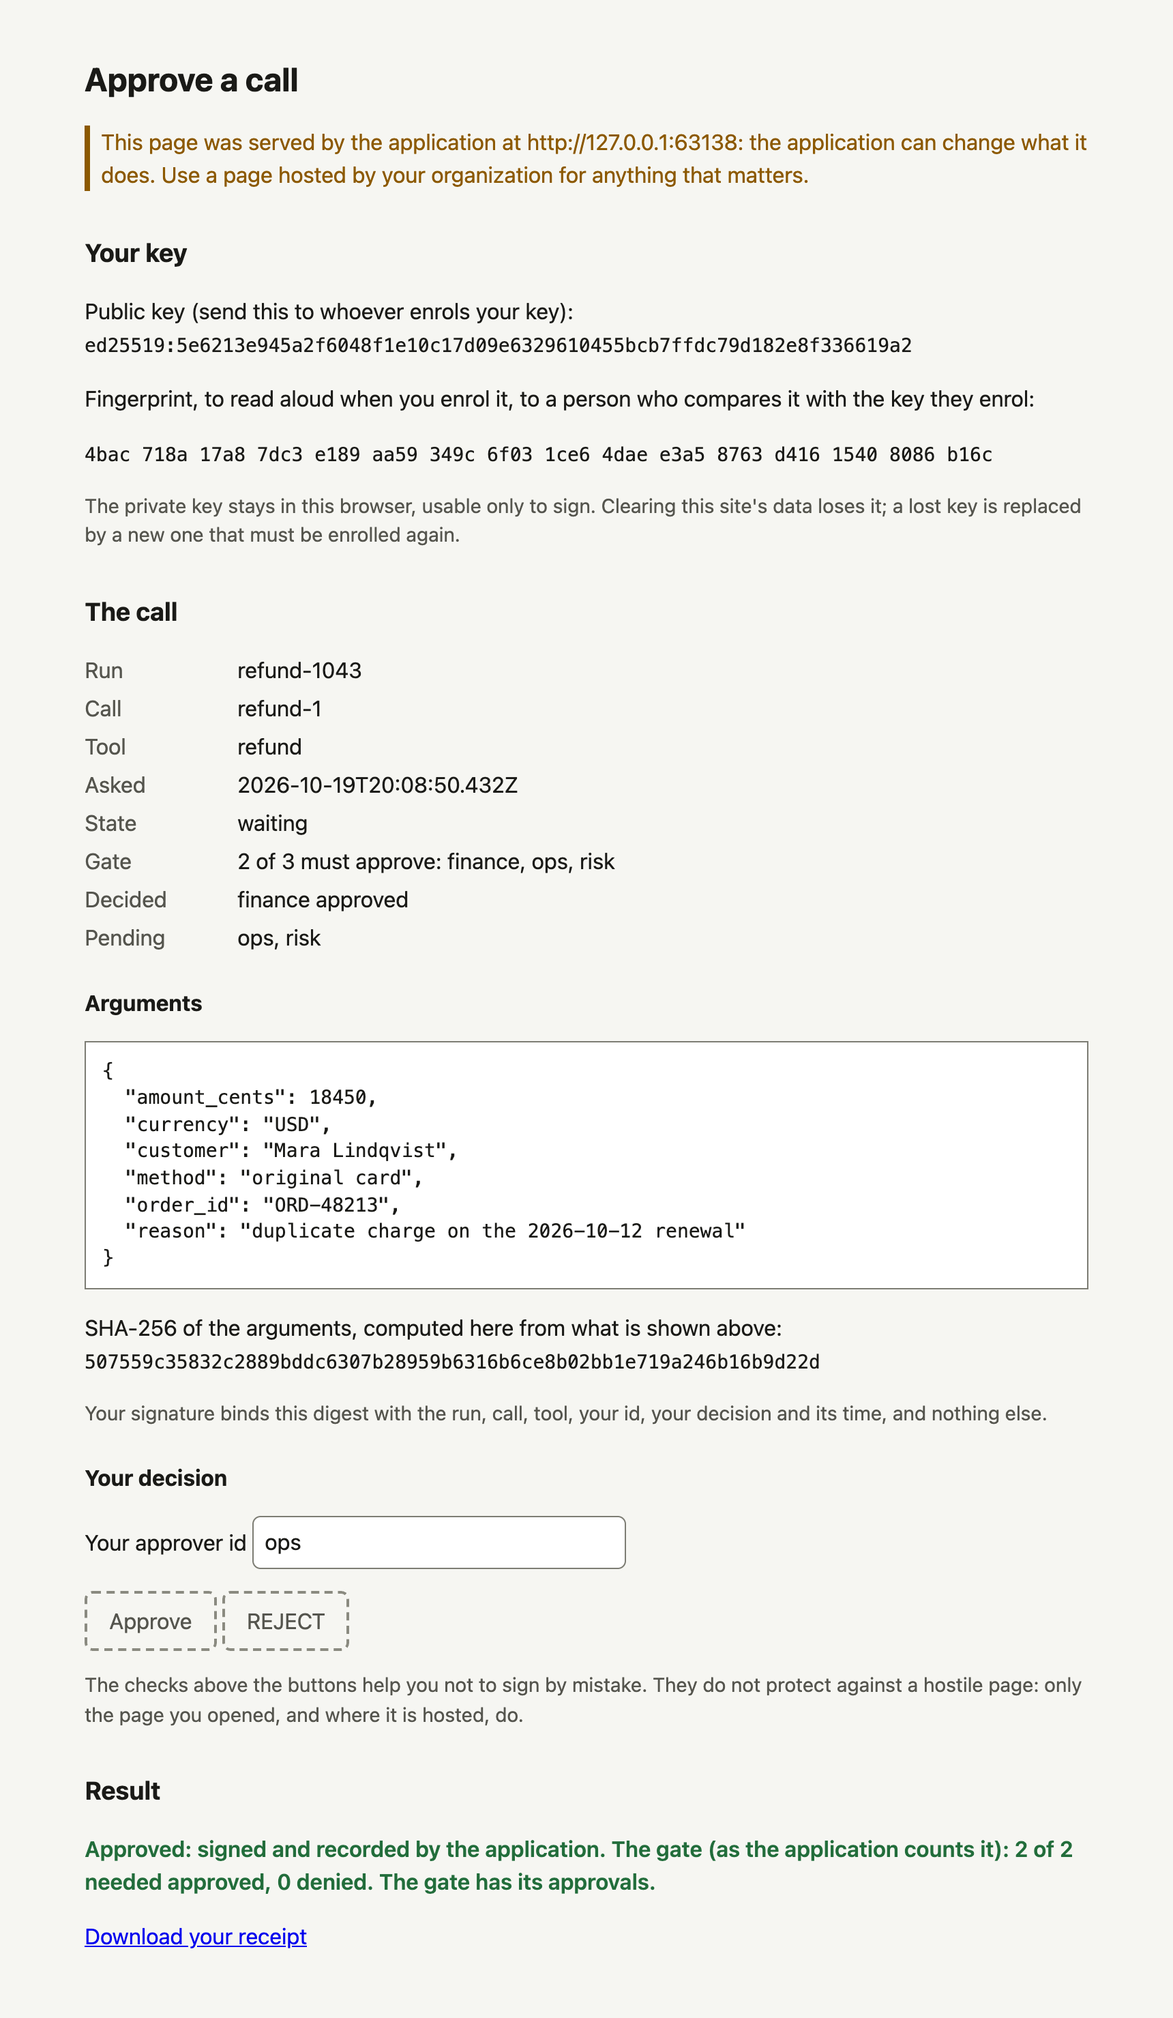
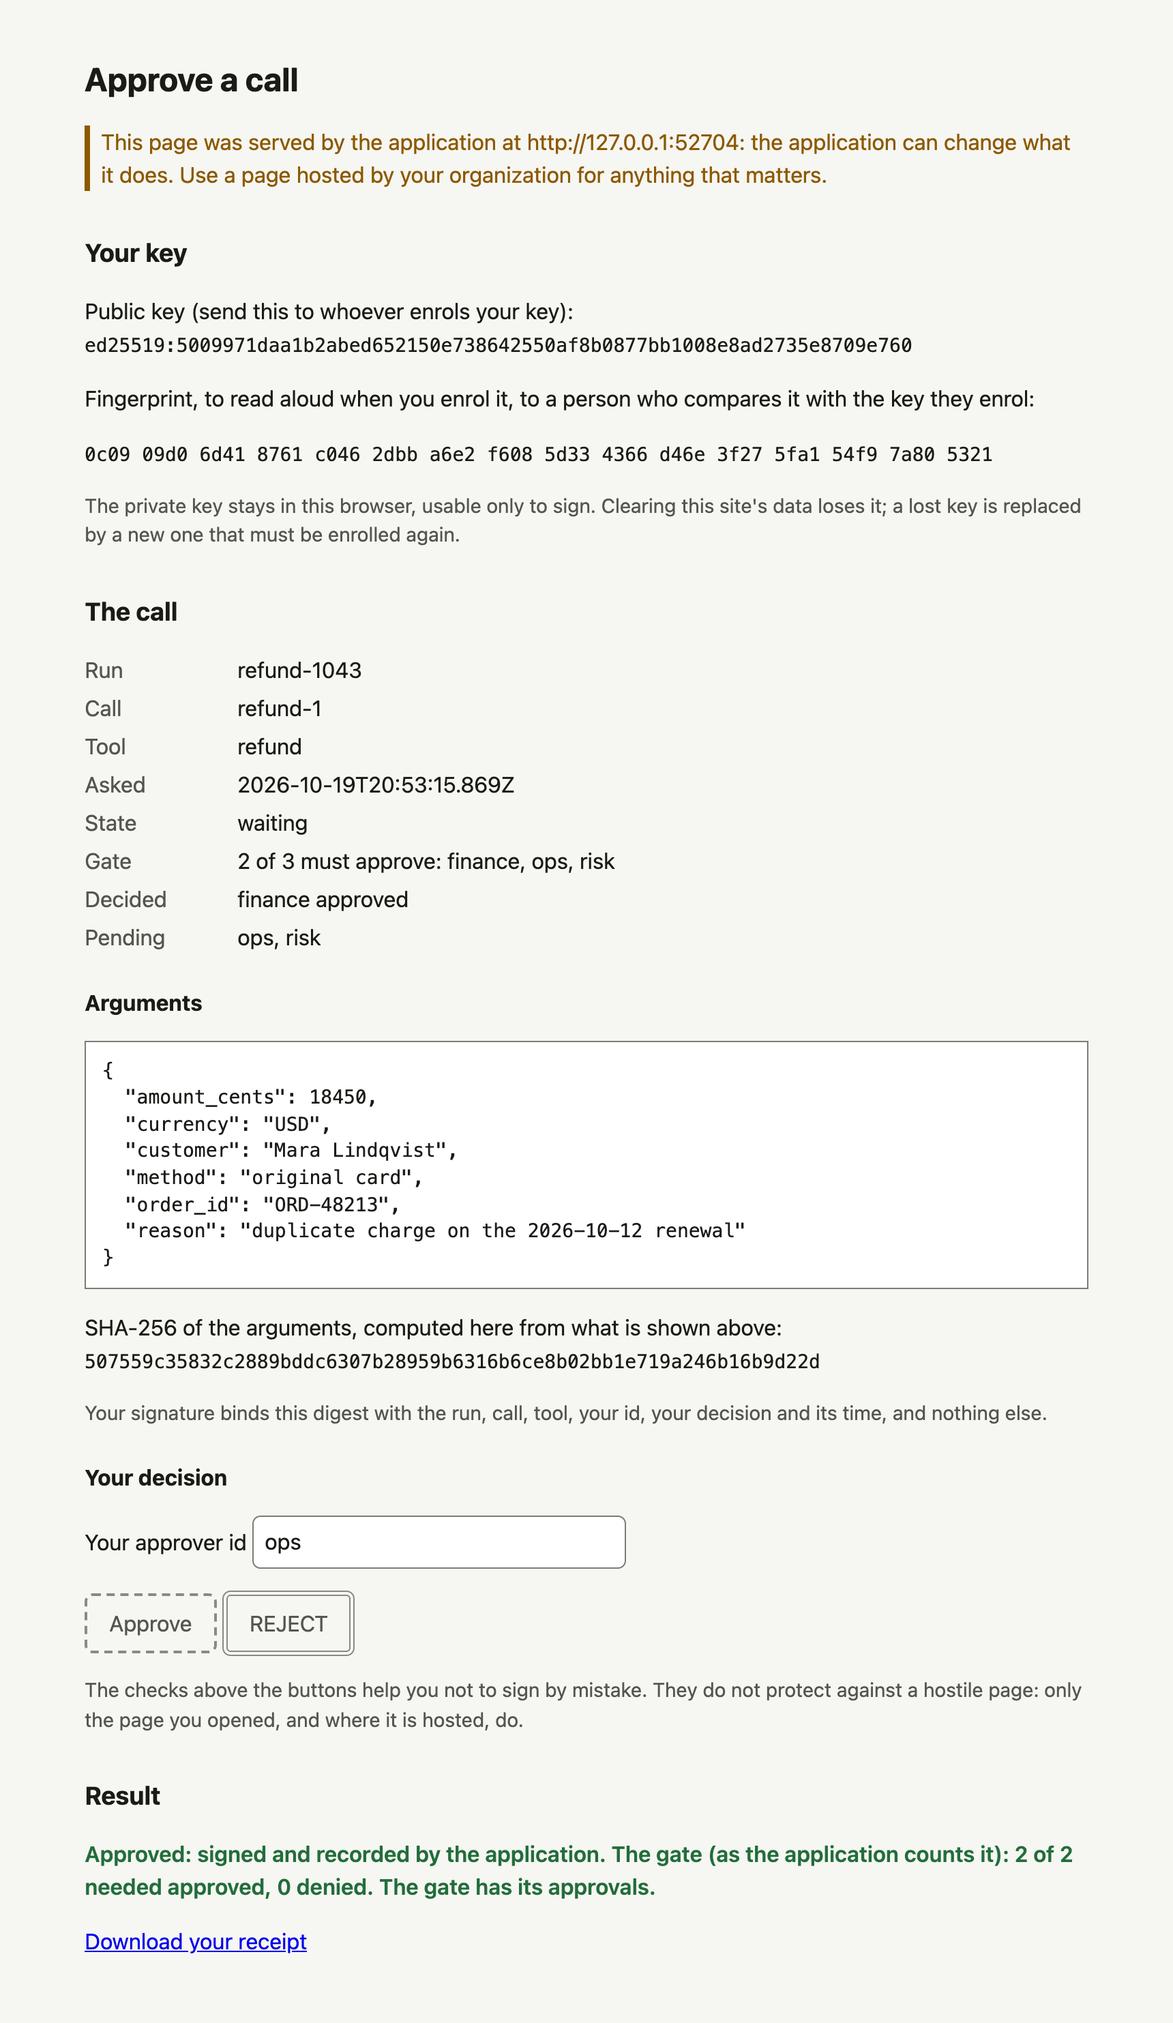
themes PR 5: REJECT differs from Approve in shape in every mode; Chrome test covers shapes, sizes, labels and results; bundle hash golden; ban more CSS; docs fixes (review)

diff --git a/approvals/page/app.css b/approvals/page/app.css
@@ -16,9 +16,14 @@ pre { background: var(--card); border: 1px solid var(--line-strong); padding: .7
 code { font: 14px var(--mono); overflow-wrap: anywhere; }
 input { font: inherit; color: var(--fg); background: var(--card); border: 1px solid var(--line-strong); border-radius: var(--r-sm); padding: .4rem .5rem; width: 16rem; max-width: 100%; }
 button { font: inherit; padding: .5rem 1rem; border: 1px solid var(--good); background: var(--good); color: var(--on-sem); border-radius: var(--r-sm); cursor: pointer; }
-button.reject { border-color: var(--bad); background: var(--bad); }
-/* A disabled button is told by its dashed edge and its quiet text as well as its color. */
+/* REJECT is a different shape from Approve, in every mode and in forced colors, where the two share
+   one color: a heavy double edge, drawn in the glyph color so the two lines show against the fill, against a thin solid one. The words say which is which; the shape says
+   it again, so a look that blurs the colors cannot make one pass for the other. */
+button.reject { border: 4px double var(--on-sem); background: var(--bad); }
+/* A disabled button is told by its quiet text, its empty fill and a dashed edge (REJECT's stays double, so
+   the two still differ) as well as by its color. */
 button:disabled { background: transparent; color: var(--muted); border: 2px dashed var(--idle); cursor: not-allowed; }
+button.reject:disabled { border: 4px double var(--idle); }
 a:focus-visible, button:focus-visible, input:focus-visible, pre:focus-visible { outline: 2px solid var(--focus); outline-offset: 2px; }
 .warn { color: var(--warn); border-left: 4px solid var(--warn); padding-left: .5rem; }
 .note { color: var(--muted); font-size: .9rem; }

diff --git a/approvals/page_chrome_test.go b/approvals/page_chrome_test.go
@@ -32,25 +32,77 @@ type pageText struct {
 	Disabled bool    `json:"disabled"`
 }
 
+// pageDrawn is how an element is drawn: visible in the page, and what its label is made of.
+type pageDrawn struct {
+	W         float64 `json:"w"`
+	H         float64 `json:"h"`
+	Left      float64 `json:"left"`
+	Right     float64 `json:"right"`
+	VW        float64 `json:"vw"`
+	Opacity   float64 `json:"opacity"`
+	FontSize  float64 `json:"fontSize"`
+	Shown     bool    `json:"shown"`
+	Text      string  `json:"text"`
+	Before    string  `json:"before"`
+	After     string  `json:"after"`
+	Transform string  `json:"transform"`
+	Clip      string  `json:"clip"`
+}
+
+// seen: the element is there to be read: shown, opaque, big enough, on screen, not moved, scaled or clipped.
+func (d pageDrawn) seen(minW, minH, minFont float64) bool {
+	return d.Shown && d.Opacity >= 0.99 && d.W >= minW && d.H >= minH && d.FontSize >= minFont &&
+		d.Left >= -1 && d.Right <= d.VW+1 && (d.Transform == "none" || d.Transform == "") && (d.Clip == "none" || d.Clip == "")
+}
+
+type pageButton struct {
+	BorderWidth float64   `json:"borderWidth"`
+	BorderStyle string    `json:"borderStyle"`
+	Border      pcolour   `json:"border"`
+	Fill        pcolour   `json:"fill"`
+	FillAlpha   float64   `json:"fillAlpha"`
+	Text        pcolour   `json:"text"`
+	ParentBG    pcolour   `json:"parentBG"`
+	Drawn       pageDrawn `json:"drawn"`
+	FillCSS     string    `json:"fillCSS"`
+	BorderCSS   string    `json:"borderCSS"`
+}
+
+type pageResult struct {
+	Color  pcolour   `json:"color"`
+	Alpha  float64   `json:"alpha"`
+	BG     pcolour   `json:"bg"`
+	Drawn  pageDrawn `json:"drawn"`
+	Weight string    `json:"weight"`
+}
+
 type pageControl struct {
-	Tag         string  `json:"tag"`
-	ID          string  `json:"id"`
-	Class       string  `json:"cls"`
-	Disabled    bool    `json:"disabled"`
-	BorderWidth float64 `json:"borderWidth"`
-	BorderStyle string  `json:"borderStyle"`
-	Border      pcolour `json:"border"`
-	BorderAlpha float64 `json:"borderAlpha"`
-	Fill        pcolour `json:"fill"`
-	FillAlpha   float64 `json:"fillAlpha"`
-	ParentBG    pcolour `json:"parentBG"`
+	Drawn       pageDrawn `json:"drawn"`
+	Tag         string    `json:"tag"`
+	ID          string    `json:"id"`
+	Class       string    `json:"cls"`
+	Disabled    bool      `json:"disabled"`
+	BorderWidth float64   `json:"borderWidth"`
+	BorderStyle string    `json:"borderStyle"`
+	Border      pcolour   `json:"border"`
+	BorderAlpha float64   `json:"borderAlpha"`
+	Fill        pcolour   `json:"fill"`
+	FillAlpha   float64   `json:"fillAlpha"`
+	ParentBG    pcolour   `json:"parentBG"`
 }
 
 type pageMode struct {
-	Token   string        `json:"token"`
-	FGToken string        `json:"fgToken"`
-	Texts   []pageText    `json:"texts"`
-	Control []pageControl `json:"controls"`
+	Must  map[string]*pageDrawn `json:"must"`
+	Roles struct {
+		Good string `json:"good"`
+		Bad  string `json:"bad"`
+	} `json:"roles"`
+	Enabled map[string]pageButton `json:"enabled"`
+	Results map[string]pageResult `json:"results"`
+	Token   string                `json:"token"`
+	FGToken string                `json:"fgToken"`
+	Texts   []pageText            `json:"texts"`
+	Control []pageControl         `json:"controls"`
 	Focus   struct {
 		Style string  `json:"style"`
 		Width float64 `json:"width"`
@@ -175,8 +227,55 @@ func TestPage_LookInChrome(t *testing.T) {
 					t.Errorf("control #%s was not measured", id)
 				}
 			}
-			if a, rj := byID["approve"], byID["reject"]; a.Disabled && (a.BorderStyle != "dashed" || rj.BorderStyle != "dashed") {
-				t.Errorf("disabled Approve and REJECT are %s and %s, want dashed", a.BorderStyle, rj.BorderStyle)
+			// Disabled, Approve is dashed and REJECT keeps its double edge: they still differ, and a disabled
+			// one is not an enabled one.
+			if a, rj := byID["approve"], byID["reject"]; a.Disabled && (a.BorderStyle != "dashed" || rj.BorderStyle != "double") {
+				t.Errorf("disabled Approve and REJECT are %s and %s, want dashed and double", a.BorderStyle, rj.BorderStyle)
+			}
+			// The two buttons, as drawn once enabled: different in shape (not only in colour, which forced
+			// colours take away) in every mode, labelled by their DOM text and nothing CSS adds, drawn, and
+			// each with an edge or a fill 3:1 against its surroundings and text 4.5:1 on its fill.
+			ap, rj := m.Enabled["approve"], m.Enabled["reject"]
+			if ap.BorderStyle == rj.BorderStyle && math.Abs(ap.BorderWidth-rj.BorderWidth) < 2 {
+				t.Errorf("Approve and REJECT have the same shape (%s %vpx and %s %vpx): they differ by colour or words only", ap.BorderStyle, ap.BorderWidth, rj.BorderStyle, rj.BorderWidth)
+			}
+			for id, want := range map[string]string{"approve": "Approve", "reject": "REJECT"} {
+				for _, d := range []pageDrawn{m.Enabled[id].Drawn, byID[id].Drawn} {
+					if d.Text != want || (d.Before != "none" && d.Before != "normal") || (d.After != "none" && d.After != "normal") {
+						t.Errorf("#%s is labelled %q (::before %s, ::after %s), want %q from the DOM and nothing from CSS", id, d.Text, d.Before, d.After, want)
+					}
+					if !d.seen(60, 24, 12) {
+						t.Errorf("#%s is not drawn to be read: %+v", id, d)
+					}
+				}
+				b := m.Enabled[id]
+				if edge := b.BorderWidth >= 1 && pageContrast(b.Border, b.ParentBG) >= 3; !edge && !(b.FillAlpha >= 0.5 && pageContrast(b.Fill, b.ParentBG) >= 3) {
+					t.Errorf("enabled #%s has no 3:1 edge or fill", id)
+				}
+				if b.FillAlpha >= 0.5 && pageContrast(b.Text, b.Fill) < 4.5 {
+					t.Errorf("enabled #%s: text on its fill is %.2f:1", id, pageContrast(b.Text, b.Fill))
+				}
+			}
+			// Approve is the ok color and REJECT the alert one (a swap would be a lie), as the browser
+			// resolves the theme's properties; forced colors replace both with the system's.
+			if mode != "forced-colors" && (m.Enabled["approve"].FillCSS != m.Roles.Good || m.Enabled["reject"].FillCSS != m.Roles.Bad) {
+				t.Errorf("Approve is %s and REJECT %s, want the ok color %s and the alert color %s", m.Enabled["approve"].FillCSS, m.Enabled["reject"].FillCSS, m.Roles.Good, m.Roles.Bad)
+			}
+			// What an approver must see is there to be seen, as large as it should be.
+			for id, min := range map[string]float64{"origin": 14, "call-run": 14, "call-tool": 14, "call-state": 14, "gate-need": 14, "call-args": 12, "call-digest": 12, "approver": 14} {
+				d := m.Must[id]
+				if d == nil || !d.seen(20, 10, min) {
+					t.Errorf("#%s is not drawn to be read: %+v", id, d)
+				}
+			}
+			// The result, drawn ok and bad as the page would: 4.5:1, opaque, and its text there.
+			for k, r := range m.Results {
+				if c := pageContrast(r.Color, r.BG); c < 4.5 || r.Alpha < 0.99 || !r.Drawn.seen(100, 10, 14) {
+					t.Errorf("the %s result is %.2f:1, alpha %v, drawn %+v", k, c, r.Alpha, r.Drawn)
+				}
+			}
+			if len(m.Results) != 2 {
+				t.Errorf("%d results measured, want ok and bad", len(m.Results))
 			}
 			// The focus ring is drawn and 3:1.
 			if f := m.Focus; f.Style == "none" || f.Width < 2 || pageContrast(f.Color, f.BG) < 3 {

diff --git a/approvals/page_test.go b/approvals/page_test.go
@@ -7,6 +7,8 @@ import (
 	"encoding/base64"
 	"encoding/hex"
 	"encoding/json"
+	"flag"
+	"fmt"
 	"io"
 	"net"
 	"net/http"
@@ -18,6 +20,7 @@ import (
 	"reflect"
 	"regexp"
 	"slices"
+	"sort"
 	"strings"
 	"sync"
 	"testing"
@@ -592,9 +595,9 @@ func TestPage_TakesNoThemeInput(t *testing.T) {
 	if !strings.HasPrefix(css, "/* Generated by bide from the checked themes. Do not edit. */\n:root {") {
 		t.Error("app.css does not start with the generated themes")
 	}
-	for _, bad := range []string{"data-theme", "--bide-", "@import", "url(", "attr("} {
+	for _, bad := range []string{"data-theme", "--bide-", "@import", "url(", "attr(", "image-set(", "content:", "@font-face", "@namespace", "@property", "@layer", "@container"} {
 		if strings.Contains(css, bad) {
-			t.Errorf("app.css has %q: something outside the system's settings could pick or load a look", bad)
+			t.Errorf("app.css has %q: something outside the system's settings could pick, load or add to the look", bad)
 		}
 	}
 	for _, bad := range []string{"data-theme", "bide-theme", "localStorage", "sessionStorage", "setProperty", "insertRule", "adoptedStyleSheets", "createElement('style')", "createElement('link')", "styleSheets", ".style.", "cssText"} {
@@ -620,13 +623,57 @@ func TestPage_TakesNoThemeInput(t *testing.T) {
 	if n := strings.Count(html, "<link"); n != 1 || !strings.Contains(html, `href="app.css" integrity="sha384-`) || strings.Contains(html, "<style") || strings.Contains(html, " style=") {
 		t.Errorf("index.html loads more than the one pinned stylesheet (%d links)", n)
 	}
-	// The page's own rules hold no colour literal: every color is a theme's.
-	own := css[strings.LastIndex(css, "@media (forced-colors: active)"):]
-	own = own[strings.Index(own, "}\n}\n")+len("}\n}\n"):]
-	if regexp.MustCompile(`#[0-9a-fA-F]{3,8}\b|\brgba?\(|\bhsla?\(`).MatchString(own) {
+	// The page's own rules are the source file, after the generated themes, and hold no colour literal:
+	// every color is a theme's. (The source is read as it is, so a forced-colors block of its own, or any
+	// other, cannot hide rules from the check.)
+	src, err := os.ReadFile("page/app.css")
+	if err != nil {
+		t.Fatal(err)
+	}
+	own := strings.ReplaceAll(string(src), "\r\n", "\n")
+	if !strings.HasSuffix(css, own) {
+		t.Error("app.css does not end with the page's own rules")
+	}
+	if regexp.MustCompile(`#[0-9a-fA-F]{3,8}\b|\brgba?\(|\bhsla?\(|\b(?:white|black|red|green|blue|gray|grey)\b\s*[;}]`).MatchString(own) {
 		t.Errorf("the page's own rules hold a colour literal:\n%s", own)
 	}
 	if len(own) < 500 {
-		t.Errorf("the page's own rules were not found after the generated themes (%d bytes)", len(own))
+		t.Errorf("the page's own rules are %d bytes", len(own))
+	}
+}
+
+// The approve bundle is pinned by hash in every release, and by organisations that host it: any change to
+// it, a page edit or a change to a shipped theme (which is written into app.css), is a deliberate change
+// to a signed artefact. The golden below is the bundle's SHA256SUMS; a change that moves it must be
+// reviewed as that, and the golden updated with the change (go test ./approvals -run
+// TestPage_BundleHashesAreReviewed -update).
+var updateBundleGolden = flag.Bool("update", false, "rewrite testdata/approve-page.SHA256SUMS")
+
+func TestPage_BundleHashesAreReviewed(t *testing.T) {
+	sums := approvals.PageSHA256()
+	var names []string
+	for n := range sums {
+		names = append(names, n)
+	}
+	sort.Strings(names)
+	var b strings.Builder
+	for _, n := range names {
+		fmt.Fprintf(&b, "%s  %s\n", sums[n], n)
+	}
+	const golden = "testdata/approve-page.SHA256SUMS"
+	if *updateBundleGolden {
+		if err := os.MkdirAll("testdata", 0o755); err != nil {
+			t.Fatal(err)
+		}
+		if err := os.WriteFile(golden, []byte(b.String()), 0o644); err != nil {
+			t.Fatal(err)
+		}
+	}
+	want, err := os.ReadFile(golden)
+	if err != nil {
+		t.Fatalf("%v (go test ./approvals -run TestPage_BundleHashesAreReviewed -update)", err)
+	}
+	if string(want) != b.String() {
+		t.Errorf("the approve page bundle changed: its SHA256SUMS are now\n%swas\n%s\nThis is a change to the signed bundle every release publishes and organisations pin: a page edit, or a change to a shipped theme. If it is intended, update the golden (go test ./approvals -run TestPage_BundleHashesAreReviewed -update) and say so in the pull request and the changelog.", b.String(), want)
 	}
 }

diff --git a/docs/design/approve-page.md b/docs/design/approve-page.md
@@ -140,16 +140,20 @@ The page's look is part of the pin. Its stylesheet, `app.css`, is the shipped th
 settings alone: `prefers-color-scheme`, `prefers-contrast: more` and `forced-colors: active`. There
 is no toggle and no `data-theme`, and the script, the URL, `config.json` (which names the intake and
 the credentials mode and nothing else) and the host supply no theme, colour, font, name or logo, so a
-deployment cannot change what an approver sees without changing a pinned file, and the application
-that serves the page in the application-served mode cannot either. A look that an application could
+deployment cannot change what an approver sees without changing a pinned file. That is a property of the
+bundle: in the application-served mode (`WithPage`) the application serves the files and the headers, so
+it can serve anything, and no pin applies, as the page's own banner says; a `Link:` stylesheet header, a
+proxy or a service worker belongs to whoever serves the page, and the pin does not cover it. A look that an application could
 choose would let it hide the digest, make REJECT look like the safe button or draw the origin line as
 something else, on the one page whose point is that the approver sees what they sign. (A host that
 wants its own colours forks the bundle and pins its own hash, as for any change to this page; a name
 and logo slot was considered and is not built, see [Themes](../design/themes.md), option C.) The themes are
 the same checked data the run viewer uses: contrast 4.5:1 for text and 3:1 for a control's edge in
 every theme, a disabled button told by a dashed edge as well as its colour, and the system's colours
-under forced colours. A Chrome test (`TestPage_LookInChrome`) draws the page under each look and a Go
-test (`TestPage_TakesNoThemeInput`) holds the no-input property. The bundle is larger by the generated
+under forced colours. Approve and REJECT differ in shape in every mode, not only in colour: REJECT has a
+heavy double edge and Approve a thin solid one, because under forced colours both take the system's button
+colours and would otherwise differ by their words alone. A Chrome test (`TestPage_LookInChrome`) draws the page under each look and checks what an approver must see (shapes, sizes, opacity, labels from the DOM, an ok and a bad result), a Go
+test (`TestPage_TakesNoThemeInput`) holds the no-input property, and a committed golden of the bundle's `SHA256SUMS` (`TestPage_BundleHashesAreReviewed`) makes any change to the bundle, including a change to a shipped theme, a deliberate one in review. The bundle is larger by the generated
 themes, about 5 KB (`app.css` 1.5 KB to 6.9 KB).
 
 ## Same-origin, locked down

diff --git a/changes/unreleased/themes-approve-page.md b/changes/unreleased/themes-approve-page.md
@@ -1,3 +1,5 @@
 Section: Changed
 
-The approve page draws from the shipped themes, inside its pinned bundle: light and dark by the system's color scheme, high-contrast when the system asks for more contrast (prefers-contrast: more), and the system's colors under forced colors, instead of two hand-written palettes that never saw a contrast check. The page takes no theme from a script, a URL, config.json or its host (a test holds that), a control's edge reaches 3:1, text 4.5:1, a disabled button has a dashed edge as well as its color, and the focus ring is drawn. app.css, and so index.html (which carries its integrity hash) and approve-page.SHA256SUMS, change in this release and are about 5 KB larger: a deployment that pins the bundle by hash re-verifies the release's approve-page.SHA256SUMS and updates its pin, as for any change to the page; the page's behaviour, the script and its protocol are unchanged.
+Upgrading: the approve page's SHA256SUMS and the Subresource Integrity hash in its index.html change in this release. Anyone who pins the approve page by hash, or hosts it on their own origin, must update the pin from this release's signed approve-page.SHA256SUMS (verify it as before) and redeploy the new bundle; a copy built earlier no longer matches. app.css is about 5 KB larger (1.5 KB to 6.9 KB); the script, the protocol and the page's behaviour are unchanged.
+
+The approve page draws from the shipped themes, inside its pinned bundle: light and dark by the system's color scheme, high-contrast when the system asks for more contrast (prefers-contrast: more), and the system's colors under forced colors, instead of two hand-written palettes that never saw a contrast check. The page takes no theme from a script, a URL, config.json or its host (a test holds that, and another holds the bundle's hashes in a committed golden, so a later change to a shipped theme is a visible change to the signed bundle). Text is 4.5:1, a control's edge 3:1, a disabled button has a dashed edge as well as its color, and the focus ring is drawn. REJECT now differs from Approve in shape (a heavy double edge against a thin solid one), in every mode: before this release the two differed by color and by their words only, and under forced colors, where both take the system's button colors, by their words alone.

diff --git a/docs/KNOWN-LIMITATIONS.md b/docs/KNOWN-LIMITATIONS.md
@@ -436,6 +436,8 @@ Removing a node leaves any `assert` line that names it (the check reports it as 
 because removing an assertion is itself a weakening. A node that is an input of a join cannot be removed
 in the editor yet; edit the source.
 
+**The approve page's look is tested in Chrome only.** `TestPage_LookInChrome` and the no-input test run in Chrome and Go; Firefox and Safari are not run. In particular, Firefox processes a `Link: <...>; rel=stylesheet` response header, which Chrome ignores for this page, and a CSP of the host can change what loads: the pin covers the bundle's bytes, not the headers or proxy of whoever serves them (an organisation hosting the bundle should serve it with the CSP `approvals.PageCSP` returns, which allows no other stylesheet).
+
 **Forced colours and more contrast are tested in Chrome's emulation, not on a real contrast theme.** The viewer's colour-only and contrast checks run in real Chrome under light, dark, high-contrast, `prefers-contrast: more` and `forced-colors: active`; they are not Windows High Contrast on Windows, macOS Increase contrast, or a screen reader. A manual pass with those is still owed (the editor is not yet themed; the approve page takes the shipped themes by the system's settings alone; see the [themes guide](guides/themes.md)).
 
 **The editor's accessibility has automated and keyboard tests and no manual screen-reader pass yet.** The
